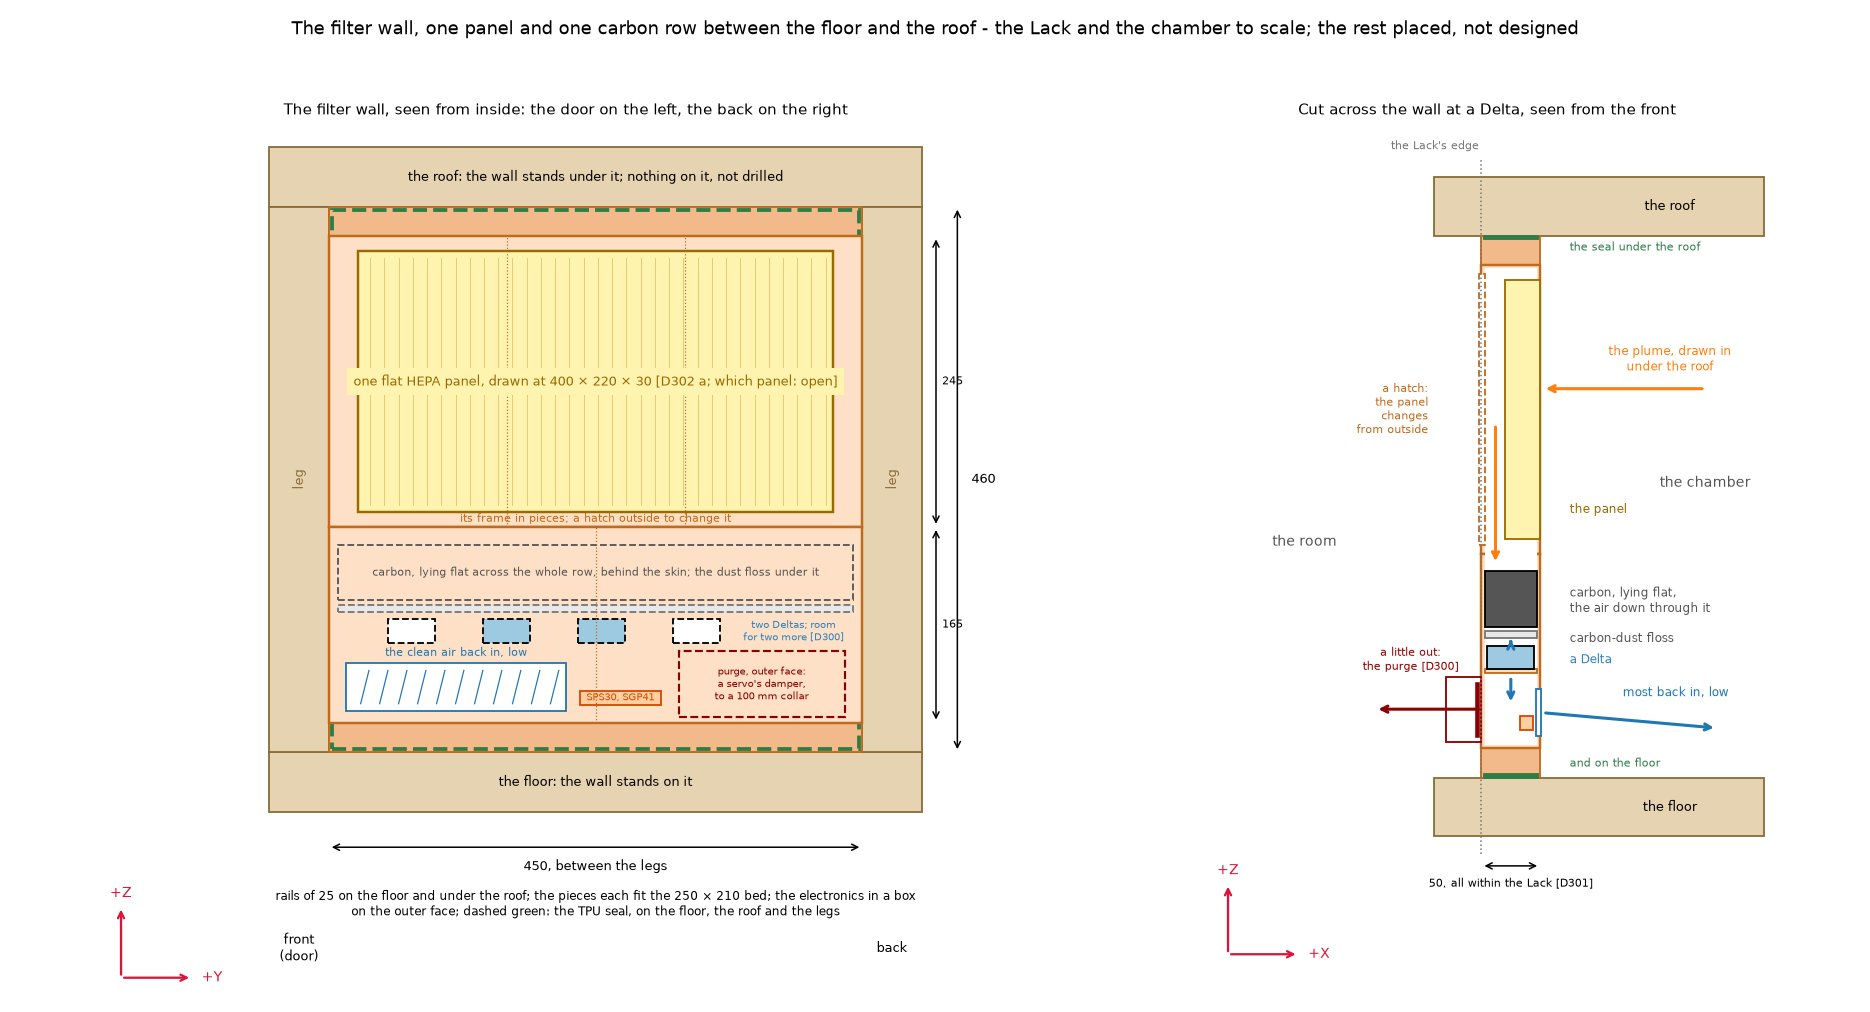
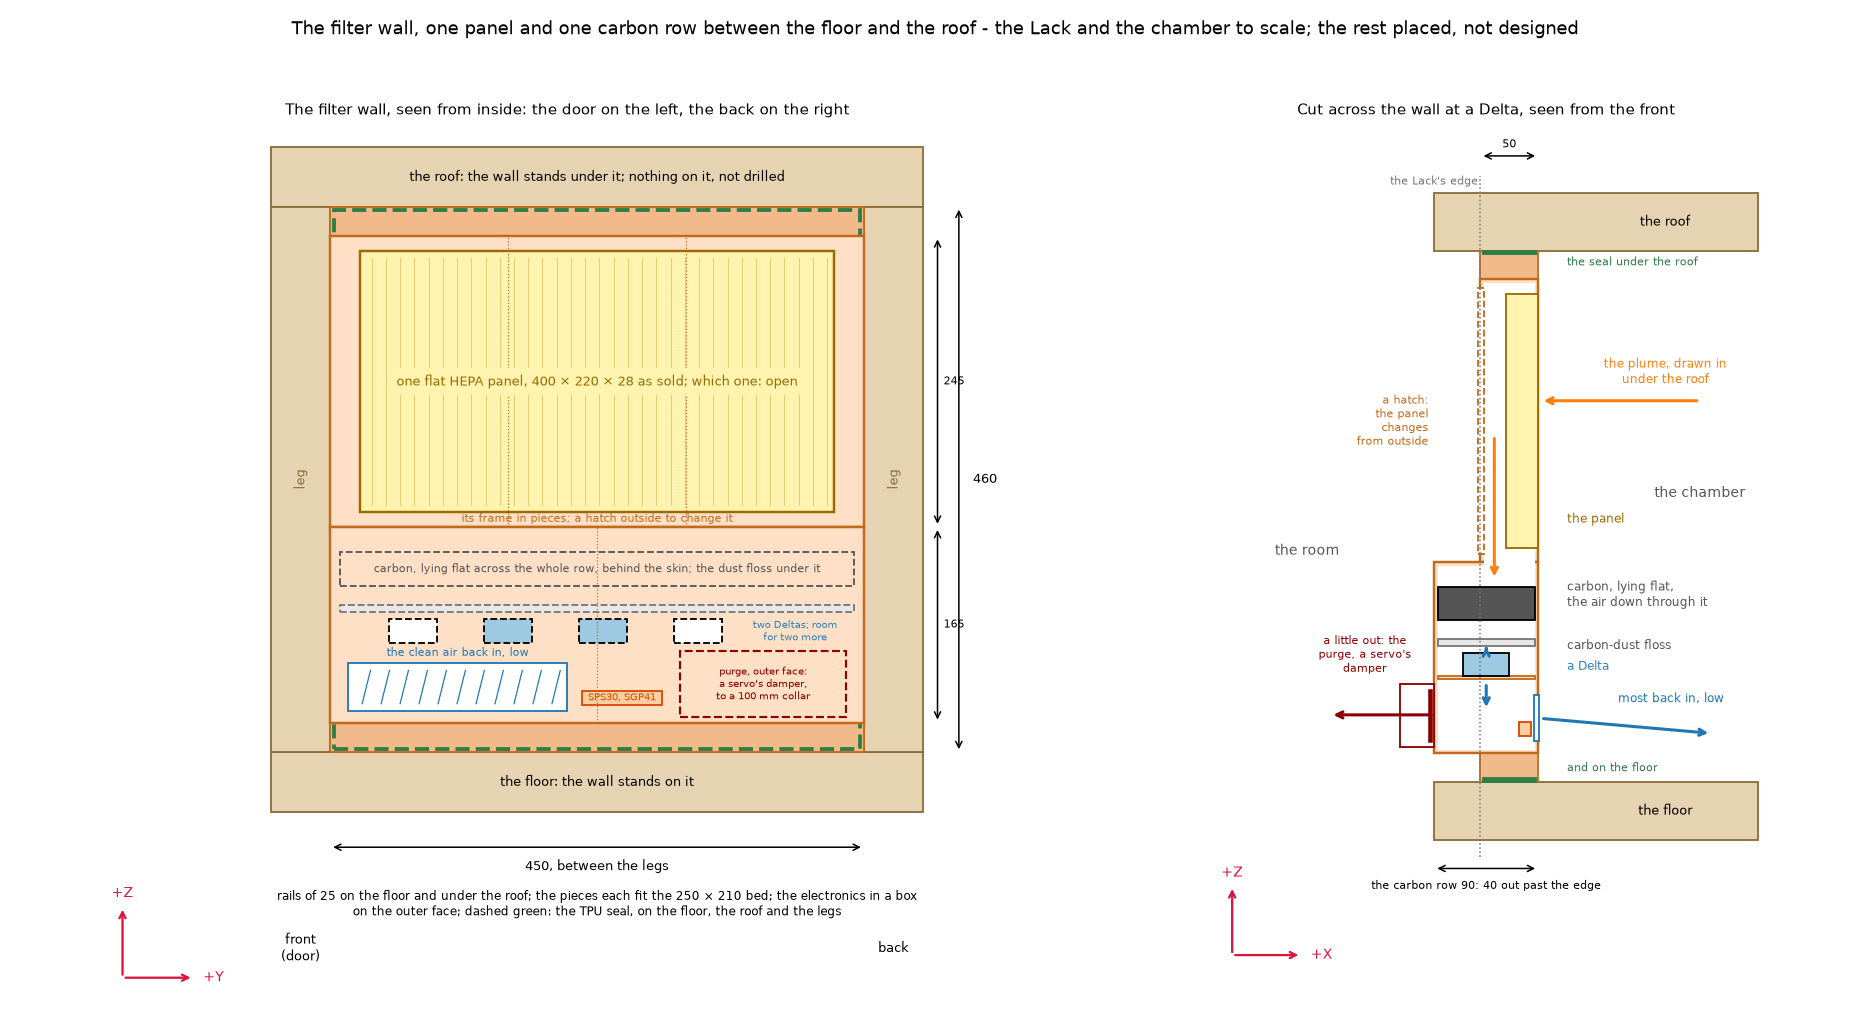
feat(figures): two Deltas and a servo's purge, the carbon row 90 deep
Alon, 15 Oct 2026:
- D300 a: one filter unit - two Deltas now, in a plate cut for four,
  and a servo's damper on the clean side purging a little to the
  window's duct. The airflow page's extraction box is marked
  superseded, and its build order's step 4 says so.
- D301: "all are ok. more important to hit the filtration target", so
  the deepest - the carbon row 90 deep, 40 of it out past the edge:
  4.16 L/s, 5.8 x today's at H13, against the target of four times
  (D276 b), which every depth meets.

The figure draws the carbon row proud and the panel at 400 x 220 x 28,
the size sold. The scrubber page notes that two medium panels of the
same face would give the same air.

ruff and reuse lint clean; the sizing check 3 of 3, controls 3 of 3.

diff --git a/scripts/figures/filter-wall.py b/scripts/figures/filter-wall.py
@@ -5,16 +5,17 @@
 # requires-python = ">=3.11"
 # dependencies = ["matplotlib"]
 # ///
-"""The filter wall's layout (Alon, 15 Oct 2026: D294 a, D291 a, D297, D298 a, D302 a): the enclosure's left wall, printed,
+"""The filter wall's layout (Alon, 15 Oct 2026: D294 a, D291 a, D298 a, D302 a, D300 a, D301): the enclosure's left wall,
+printed,
 is the one filter unit, standing between the floor and the roof and between the legs. Its top row is one flat
 purifier HEPA panel; its bottom row the carbon lying flat across the whole width, its dust floss, the Deltas, the
 sensors, the clean air's outlet and the purge to the window. From the repository's root:
 
   uv run scripts/figures/filter-wall.py       writes docs/diagrams/filter-wall/layout.png
 
-The Lack, its legs and the chamber are to scale; the panel is drawn at 400 x 220 x 30 until one is chosen, and the
-rest is placed, not designed. Drawn with the options recommended and still open: the wall 50 deep, all within the
-Lack (D301); two Deltas in a plate cut for four, and a servo's damper on the purge (D300).
+The Lack, its legs and the chamber are to scale; the panel is drawn at 400 x 220 x 28, the size sold, until one is
+bought and measured, and the rest is placed, not designed. Two Deltas in a plate cut for four, a servo's damper on
+the purge (D300 a); the carbon row 90 deep, 40 of it out past the edge, for the most air (D301).
 """
 from pathlib import Path
 
@@ -33,13 +34,14 @@ TOP = 50            # its thickness (T286)
 LEG = 50            # the legs, square
 CH_H = 460          # the chamber, floor to roof (Q157)
 DEPTH = 50          # the wall, within the Lack: the room on the floor and the roof is 50 or more (Q296)
+PROUD = 40          # the carbon row, out past the edge into the room (D301)
 # placed, not designed
 RAIL = 25           # on the floor and under the roof, carrying the seal
-PANEL = (400, 220, 30)            # the HEPA panel: long, tall, thick, as listed (D302 a; not chosen)
+PANEL = (400, 220, 28)            # the HEPA panel: long, tall, thick, as sold (D302 a; measure the one bought)
 HEPA_ROW = (190, CH_H - RAIL)     # the top row, from to
 CARB_ROW = (RAIL, HEPA_ROW[0])    # the bottom row
 SKIN = 3
-BED_Z, BED_D = 128, 47            # the carbon: its floor, and its depth at two Deltas
+BED_Z, BED_D = 140, 29            # the carbon: its floor, and its depth at two Deltas across 84 x 444
 FLOSS_Z = 118
 FAN_Z, DELTA = 92, (40, 20)
 FANS_Y = (100, 180, 260, 340)     # four places, the middle two fitted
@@ -105,7 +107,7 @@ pz0 = HEPA_ROW[0] + (HEPA_ROW[1] - HEPA_ROW[0] - ph) / 2
 box(wall, py0, pz0, pl, ph, HEPA_C, ec="#9a6a00", lw=1.6)
 for y in range(int(py0) + 10, int(py0 + pl), 12):
     wall.plot([y, y], [pz0 + 6, pz0 + ph - 6], color="#e0c060", lw=0.5)
-label(wall, LACK / 2, pz0 + ph / 2, "one flat HEPA panel, drawn at 400 × 220 × 30 [D302 a; which panel: open]",
+label(wall, LACK / 2, pz0 + ph / 2, "one flat HEPA panel, 400 × 220 × 28 as sold; which one: open",
       color="#9a6a00", fontsize=8.5, bbox={"facecolor": HEPA_C, "edgecolor": "none"})
 label(wall, LACK / 2, HEPA_ROW[0] + 7, "its frame in pieces; a hatch outside to change it", color="#c26a1b", fontsize=7)
 # the bottom row: carbon, floss, Deltas, sensors, outlet, purge
@@ -116,7 +118,7 @@ box(wall, LEG + 8, FLOSS_Z, LACK - 2 * LEG - 16, 6, FLOSS_C, ec="#777", ls="--")
 for fy in FANS_Y:
     fitted = fy in FITTED
     box(wall, fy, FAN_Z, DELTA[0], DELTA[1], FAN_C if fitted else "white", ls="--")
-label(wall, 442, FAN_Z + 10, "two Deltas; room\nfor two more [D300]", color="#3182bd", fontsize=6.5)
+label(wall, 442, FAN_Z + 10, "two Deltas; room\nfor two more", color="#3182bd", fontsize=6.5)
 y_a, y_b, z_a, z_b = OUTLET
 box(wall, y_a, z_a, y_b - y_a, z_b - z_a, "white", ec="tab:blue")
 for y in range(y_a + 12, y_b, 16):
@@ -151,34 +153,34 @@ label(cut, 160, -TOP / 2, "the floor")
 box(cut, -40, CH_H, 280, TOP, WOOD, ec=WOOD_EDGE)
 label(cut, 160, CH_H + TOP / 2, "the roof")
 cut.plot([0, 0], [-TOP - 15, CH_H + TOP + 15], color="#777", lw=1, ls=":")
-label(cut, -2, CH_H + TOP + 26, "the Lack's edge", color="#777", fontsize=7, ha="right")
+label(cut, -2, CH_H + TOP + 10, "the Lack's edge", color="#777", fontsize=7, ha="right")
 for z0, z1 in ((0, RAIL), (CH_H - RAIL, CH_H)):
     box(cut, 0, z0, DEPTH, z1 - z0, FRAME_C, ec="#c26a1b")
 for z in (0, CH_H - 3):
     box(cut, 2, z, DEPTH - 4, 3, SEAL, ec=SEAL)
-for z0, z1 in (HEPA_ROW, CARB_ROW):
-    box(cut, 0, z0, DEPTH, z1 - z0, MOD_C, ec="#c26a1b", lw=1.6)
-    box(cut, SKIN, z0 + SKIN, DEPTH - 2 * SKIN, z1 - z0 - 2 * SKIN, "white", ec="none")
+for (z0, z1), x0 in ((HEPA_ROW, 0), (CARB_ROW, -PROUD)):
+    box(cut, x0, z0, DEPTH - x0, z1 - z0, MOD_C, ec="#c26a1b", lw=1.6)
+    box(cut, x0 + SKIN, z0 + SKIN, DEPTH - x0 - 2 * SKIN, z1 - z0 - 2 * SKIN, "white", ec="none")
 box(cut, SKIN, HEPA_ROW[0] - 4, DEPTH - 2 * SKIN, 8, "white", ec="none")     # open between the rows
 box(cut, DEPTH - PANEL[2], pz0, PANEL[2], ph, HEPA_C, ec="#9a6a00")
 box(cut, -2, pz0 - 5, SKIN + 2, ph + 10, "white", ec="#c26a1b", ls="--")     # the hatch
-box(cut, SKIN, BED_Z, DEPTH - 2 * SKIN, BED_D, CARBON_C)
-box(cut, SKIN, FLOSS_Z, DEPTH - 2 * SKIN, 6, FLOSS_C, ec="#777")
-box(cut, SKIN, FAN_Z - 3, DEPTH - 2 * SKIN, 3, MOD_C, ec="#c26a1b")
-box(cut, (DEPTH - DELTA[0]) / 2, FAN_Z, DELTA[0], DELTA[1], FAN_C)
+box(cut, -PROUD + SKIN, BED_Z, DEPTH + PROUD - 2 * SKIN, BED_D, CARBON_C)
+box(cut, -PROUD + SKIN, FLOSS_Z, DEPTH + PROUD - 2 * SKIN, 6, FLOSS_C, ec="#777")
+box(cut, -PROUD + SKIN, FAN_Z - 3, DEPTH + PROUD - 2 * SKIN, 3, MOD_C, ec="#c26a1b")
+box(cut, (DEPTH - PROUD - DELTA[0]) / 2, FAN_Z, DELTA[0], DELTA[1], FAN_C)
 box(cut, DEPTH - SKIN - 1, OUTLET[2], SKIN + 2, OUTLET[3] - OUTLET[2], "white", ec="tab:blue")
 box(cut, DEPTH - SKIN - 14, SENSORS[2], 11, SENSORS[3] - SENSORS[2], "#fdd0a2", ec="#d94801")
-box(cut, -30, PURGE[2], 30, PURGE[3] - PURGE[2], "white", ec=PURGE_C)
-cut.plot([-4, -4], [PURGE[2] + 6, PURGE[3] - 6], color=PURGE_C, lw=3)
+box(cut, -PROUD - 30, PURGE[2], 30, PURGE[3] - PURGE[2], "white", ec=PURGE_C)
+cut.plot([-PROUD - 4, -PROUD - 4], [PURGE[2] + 6, PURGE[3] - 6], color=PURGE_C, lw=3)
 flow(cut, (190, 330), (DEPTH + 2, 330), "tab:orange")
 label(cut, 160, 355, "the plume, drawn in\nunder the roof", color="tab:orange", fontsize=8)
 flow(cut, (12, 300), (12, BED_Z + BED_D + 6), "tab:orange")
-flow(cut, (25, FLOSS_Z - 3), (25, FAN_Z + DELTA[1] + 5), "tab:blue")
-flow(cut, (25, FAN_Z - 6), (25, 62), "tab:blue")
+flow(cut, (5, FLOSS_Z - 3), (5, FAN_Z + DELTA[1] + 5), "tab:blue")
+flow(cut, (5, FAN_Z - 6), (5, 62), "tab:blue")
 flow(cut, (DEPTH + 2, 55), (200, 42), "tab:blue")
-flow(cut, (0, 58), (-90, 58), PURGE_C)
+flow(cut, (-PROUD, 58), (-PROUD - 90, 58), PURGE_C)
 label(cut, 165, 72, "most back in, low", color="tab:blue", fontsize=8)
-label(cut, -60, 100, "a little out:\nthe purge [D300]", color=PURGE_C, fontsize=7.5)
+label(cut, -100, 110, "a little out: the\npurge, a servo's\ndamper", color=PURGE_C, fontsize=7.5)
 label(cut, -45, pz0 + ph / 2, "a hatch:\nthe panel\nchanges\nfrom outside", color="#c26a1b", fontsize=7, ha="right")
 label(cut, 75, pz0 + 25, "the panel", color="#9a6a00", fontsize=8, ha="left")
 label(cut, 75, BED_Z + 22, "carbon, lying flat,\nthe air down through it", color=CARBON_C, fontsize=8, ha="left")
@@ -186,12 +188,14 @@ label(cut, 75, FLOSS_Z, "carbon-dust floss", color="#555", fontsize=8, ha="left"
 label(cut, 75, FAN_Z + 8, "a Delta", color="#3182bd", fontsize=8, ha="left")
 label(cut, 75, CH_H - 10, "the seal under the roof", color=SEAL, fontsize=7, ha="left")
 label(cut, 75, 12, "and on the floor", color=SEAL, fontsize=7, ha="left")
-dim(cut, (0, -TOP - 25), (DEPTH, -TOP - 25), f"{DEPTH}, all within the Lack [D301]", dy=-15, fontsize=7.5)
+dim(cut, (-PROUD, -TOP - 25), (DEPTH, -TOP - 25), f"the carbon row {DEPTH + PROUD}: {PROUD} out past the edge",
+    dy=-15, fontsize=7.5)
+dim(cut, (0, CH_H + TOP + 32), (DEPTH, CH_H + TOP + 32), f"{DEPTH}", dy=10, fontsize=7.5)
 label(cut, 190, 250, "the chamber", fontsize=9, color="#555")
 label(cut, -150, 200, "the room", fontsize=9, color="#555")
 arrows(cut, (-215, -150), "+X", "+Z")
 cut.set_xlim(-235, 245)
-cut.set_ylim(-185, CH_H + TOP + 45)
+cut.set_ylim(-185, CH_H + TOP + 60)
 cut.set_aspect("equal")
 cut.axis("off")
 cut.set_title("Cut across the wall at a Delta, seen from the front", fontsize=10)

diff --git a/docs/bentobox-scrubber.md b/docs/bentobox-scrubber.md
@@ -3,7 +3,7 @@
 > **Not to be built as drawn here** (Alon, 15 Oct 2026: D282 a). The scrubber becomes the enclosure's left wall,
 > printed, standing between the floor and the roof: one flat HEPA panel across its top row and its carbon lying
 > flat across its bottom row, for about five times this box's air with two Deltas (D294 a, D302 a; see *One panel
-> and one carbon row*). The same wall holds a purge to the window (D300); nothing stands on the top.
+> and one carbon row*). The same wall holds a purge to the window (D300 a); nothing stands on the top.
 > The base, the tray and the sensor sample here stop; the two Deltas, the sealed joints and the outlet sensors'
 > mounts carry over into the wall. The rest of this page is the remix as it was drawn, and the analysis the
 > wall is sized from.
@@ -1112,7 +1112,7 @@ carbon at the back, the extraction's vent at the door's end.
   the HEPA module takes the four standing side by side, 49 mm wide each, for 3.03 L/s, 4.2 times today's, and 3.5
   times at an H13-like grade. The bed is 42 mm deep across 84 × 219 mm, about 770 cm³ and 350 g of the pellets.
   With the extraction's own filter, drawn round one more, the wall takes five cartridges; as one unit, four.
-- **One filter unit** (Alon, 15 Oct 2026, proposed: D300): no filter of the extraction's own; a purge on the clean
+- **One filter unit** (Alon, 15 Oct 2026: D300 a, two Deltas now): no filter of the extraction's own; a purge on the clean
   side, after the fans, sends a little of the cleaned air out the 100 mm duct to the window. Either the JUMPEAK
   pulls through a small valve, or *"double the deltas. with a servo to control the outflow"*: four Deltas push,
   and a servo's damper sets how much goes out, and shuts it. What leaves was cleaned already, so the purge holds
@@ -1162,7 +1162,8 @@ across the whole bottom row.
   session's search, 15 Oct 2026) is the size of Sharp's FZ-D40HFE: 400 × 220 × 27 to 28 mm, most in a rigid frame,
   their grade mostly unstated; the 237 × 451 × 43 once quoted for it is its packaging. IKEA's STARKVIND particle
   filter, 370 × 290 × 40 and EPA12, is 35 mm too tall unless the rows re-split. Measure the panel bought before its
-  frame is printed. At 28 mm it leaves a 19 mm plenum behind it in the 50 mm wall.
+  frame is printed. At 28 mm it leaves a 19 mm plenum behind it in the 50 mm wall. Two medium panels side by side,
+  each up to about 210 × 230, would give about the same face, so the same air.
 - **The rows**: the panel's 245 tall, the carbon's 165, on rails of 25 on the floor and under the roof. The
   panel's frame prints in pieces, and a hatch outside changes the panel.
 - **The carbon row need not stand out into the room.** At the panel's H13 grade
@@ -1175,9 +1176,12 @@ across the whole bottom row.
   | 90 mm, 40 out past the edge | 4.16 L/s, 5.8 × | 5.86 L/s, 8.1 × |
 
   At 50 mm and two Deltas the bed is 47 mm deep, about 910 cm³ and 410 g; with four, 60 mm, 1.17 L and 530 g.
-- **Drawn with the options recommended and still open**: the wall 50 deep, all within the Lack (D301); two Deltas
-  in a plate cut for four, and a servo's damper on the purge (D300). The electronics go in a box on the outer
-  face, the top row being the panel's.
+- **The target is four times today's air** (D276 b), and the panel meets it at every depth with two Deltas.
+- **Two Deltas now, in a plate cut for four, and a servo's damper on the purge** (Alon, 15 Oct 2026: D300 a).
+- **The carbon row 90 deep, 40 of it out past the edge** (D301: Alon, *"all are ok. more important to hit the
+  filtration target"*, so the deepest): 4.16 L/s, 5.8 times today's at H13, the bed 29 mm deep, about 1.06 L
+  and 480 g; with four Deltas, 8.1 times.
+- **The electronics** go in a box on the outer face, the top row being the panel's.
 
 Drawn by [`scripts/figures/filter-wall.py`](../scripts/figures/filter-wall.py): the Lack and the chamber to
 scale; the panel at 400 × 220 × 30 until one is chosen; the rest placed, not designed.

diff --git a/docs/chamber-airflow.md b/docs/chamber-airflow.md
@@ -341,9 +341,9 @@ Read from their pages on 15 Oct 2026; what each says of itself is relayed, not t
   so it would want aftermarket ones of a stated grade, or the bought Mijia cartridge in a box drawn round
   it.
 
-> **Under review** (Alon, 15 Oct 2026: D300): one filter unit instead - the printed filter wall, with a purge on its
-> clean side to the duct, by the JUMPEAK through a small valve or by four Deltas and a servo's damper
-> ([bentobox-scrubber.md](bentobox-scrubber.md#the-filter-wall-in-modules)).
+> **Superseded** (Alon, 15 Oct 2026: D300 a): one filter unit instead - the printed filter wall, two Deltas (room
+> for four) pushing through it, and a servo's damper on its clean side purging a little to the duct. The box
+> below is not built ([bentobox-scrubber.md](bentobox-scrubber.md#one-panel-and-one-carbon-row)).
 
 **Decided** (Alon, 15 Oct 2026: D278 b): a box of this build's own, in FlyBy Tom's layout through the
 Lack's top, drawn round the bought Mijia cartridge, with a bed of the owned pellets and Goller's flaps.
@@ -408,7 +408,8 @@ condition it exists for.
    feed — ⛔ **never the printer's 24 V PSU**, which would destroy them. Run it as a pure
    recirculator inside the closed chamber and **verify it turns the chamber over** — see *The
    measurement that would settle it*.
-4. **Add the extraction** — the JUMPEAK on the duct, its own 12 V feed. Size the orifice, run
+4. **Add the extraction** — ⚠ since 15 Oct 2026 (D300 a) the servo's damper on the filter wall's clean side, the
+   duct to the window; what follows is the plan before it. The JUMPEAK on the duct, its own 12 V feed. Size the orifice, run
    the duct out. ⚠ **Take the duct off the scrubber's clean side**, so what leaves the house is
    filtered air. That was free in the one-fan design and is now a plumbing decision.
 5. ~~**Cut the makeup inlet.**~~ Not built (Alon, 15 Oct 2026): the gaps round the walls and the doors are the inlet.
